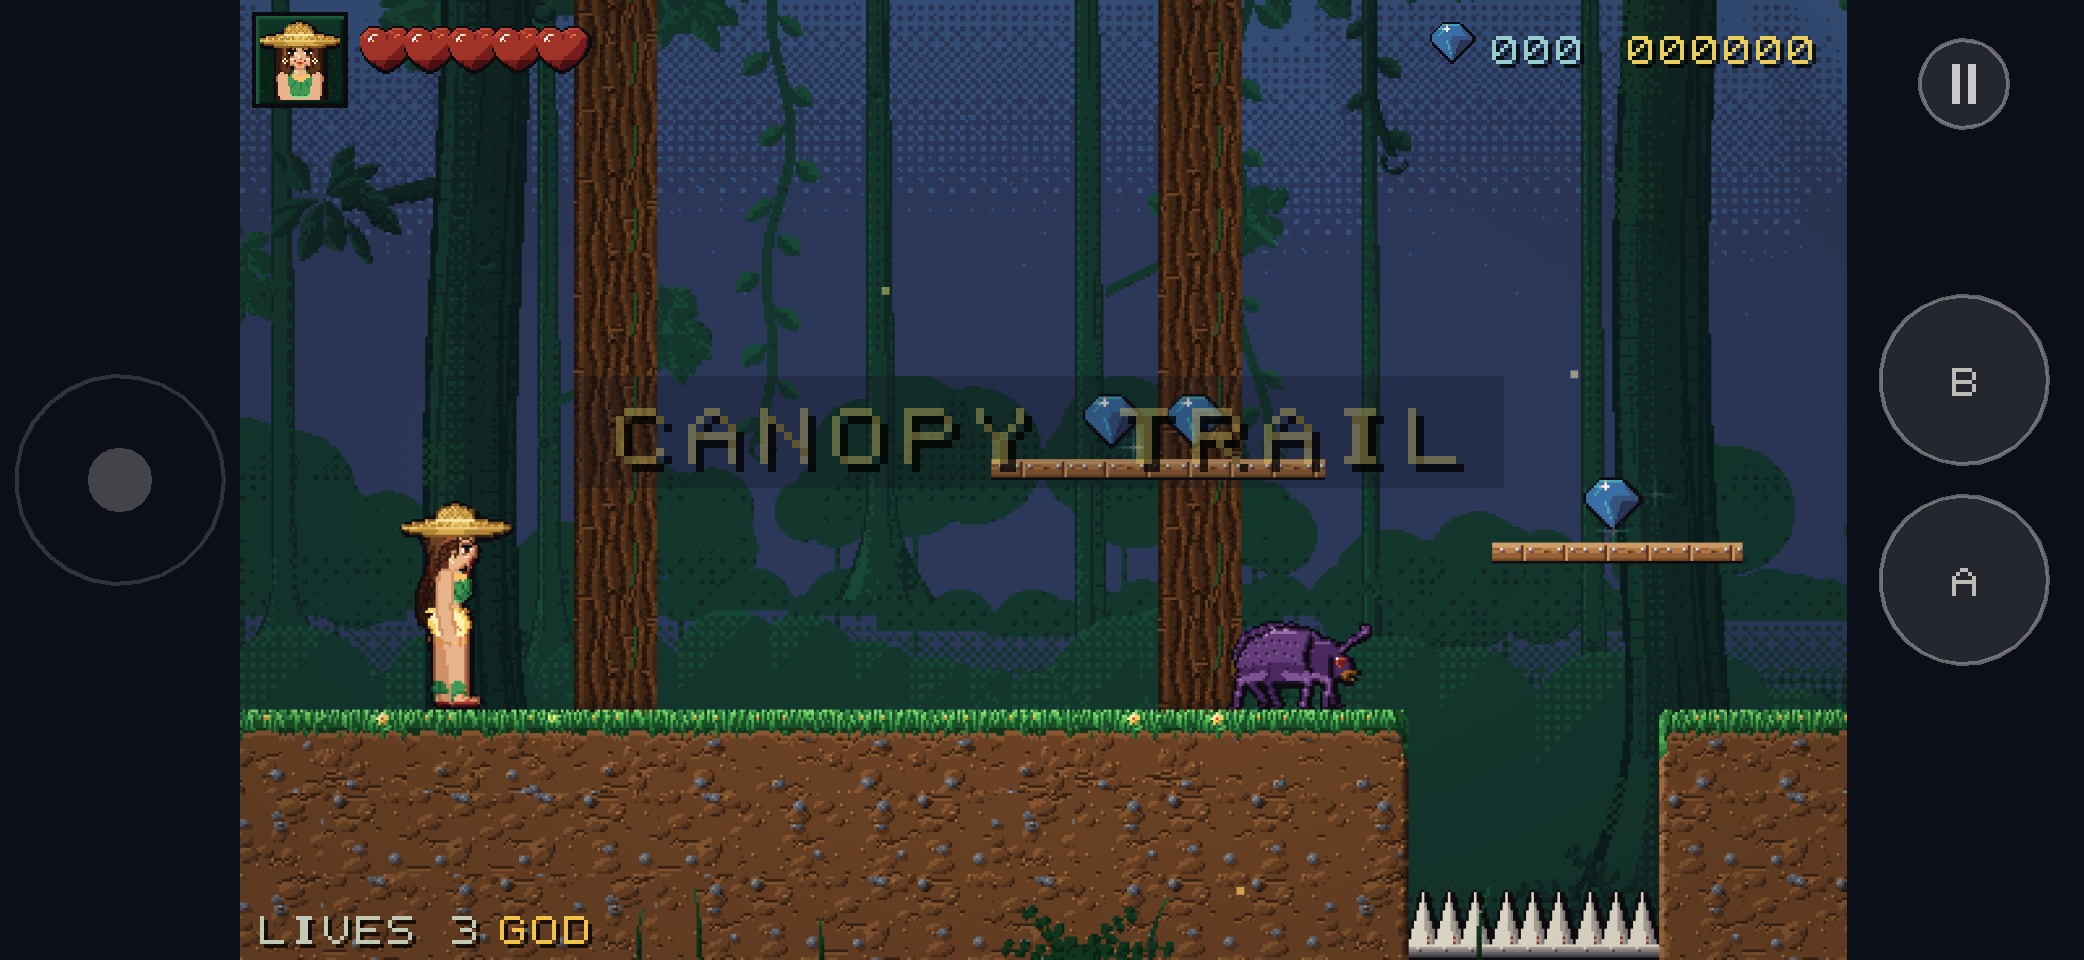
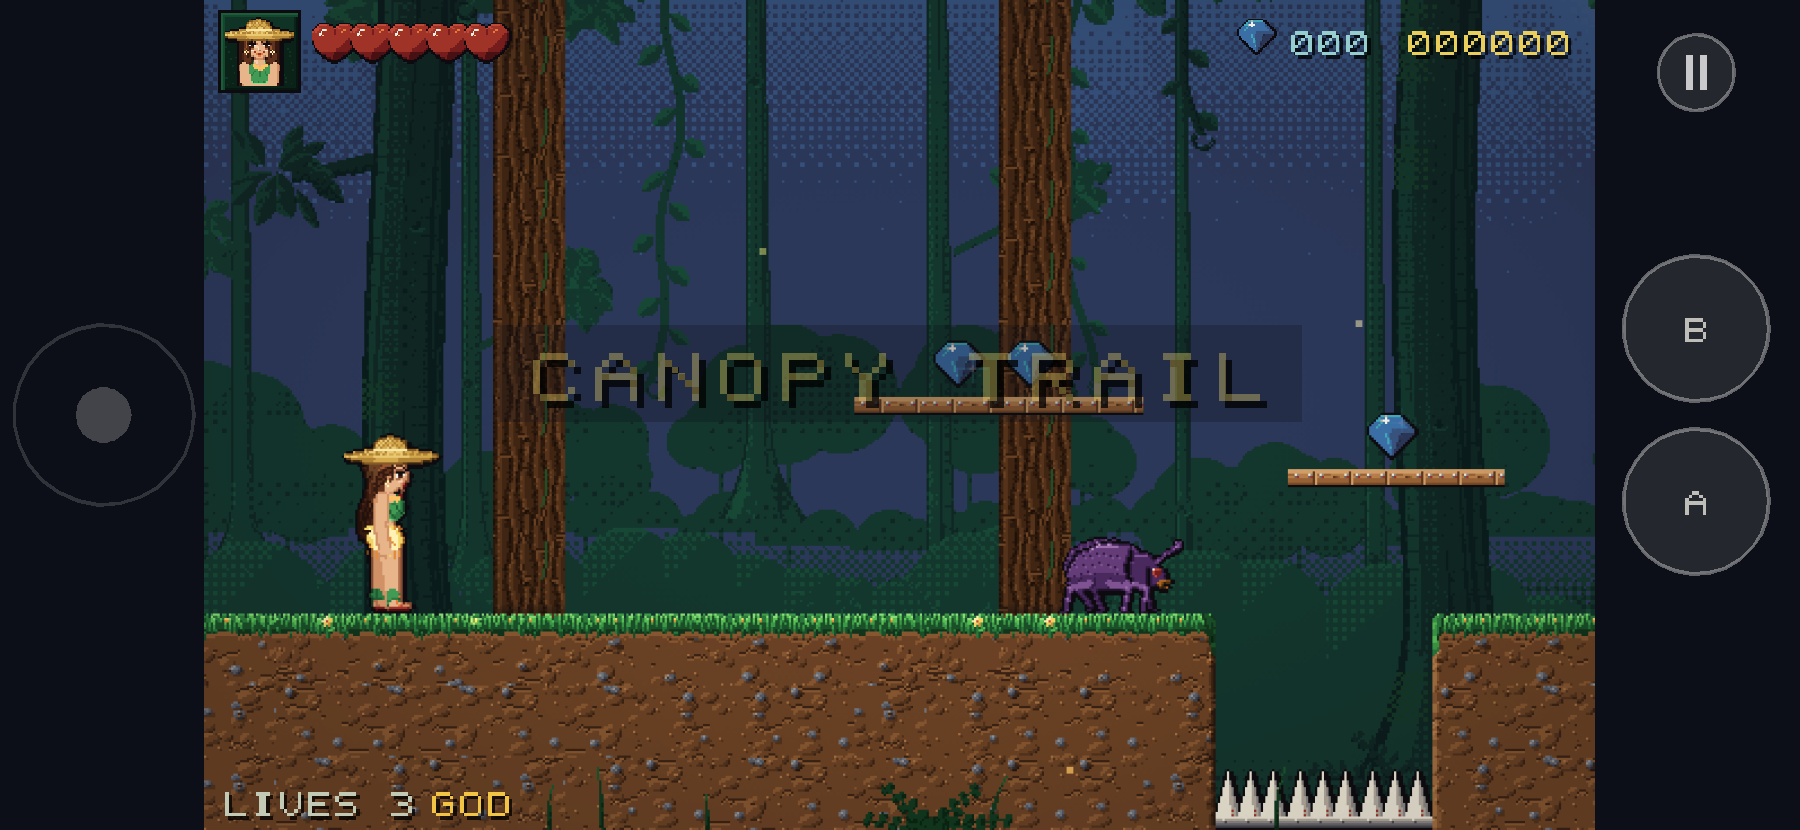
The game fills the screen: fractional stretch, touch controls inside the safe area
A whole stretch factor left a black border all round on an iPhone (the
game sat in a 2080x960 box on a 2556x1179 screen). Touch tests now inject
window pixels, the path a real finger takes.

Claude-Session: https://claude.ai/code/session_012bmwTLWcSsYuGqFdaBKWqs

diff --git a/CHANGELOG.md b/CHANGELOG.md
@@ -3376,3 +3376,11 @@ export presets' `export/icons/`, the project icon, and the committed Xcode
 icon set) is reduced from one 1024 master in a single step. The cut-out
 (`tools/cut_title_kaya.py`) now also clears the grey slivers of page that were
 caught in her hair; nothing of her is changed.
+
+## The game fills the screen
+
+On an iPhone the game sat in a 2080x960 box with a black border all round:
+the stretch factor was held to a whole number (4x), and 2556x1179 has room to
+spare. The stretch is now fractional, so the picture fills the screen's height
+(about 23% larger on that phone). The touch controls step inside the device's
+safe area so they do not sit under the notch or the home indicator.
